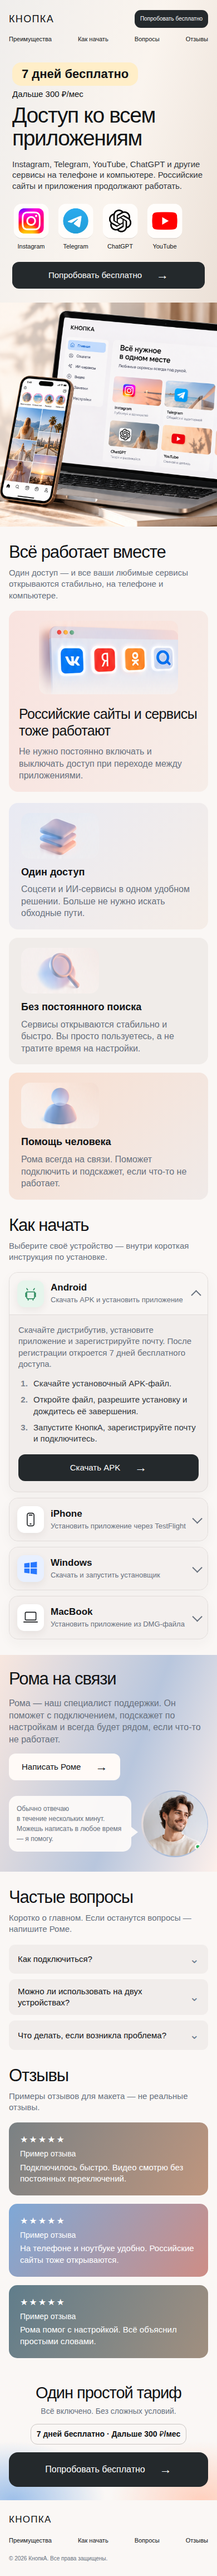
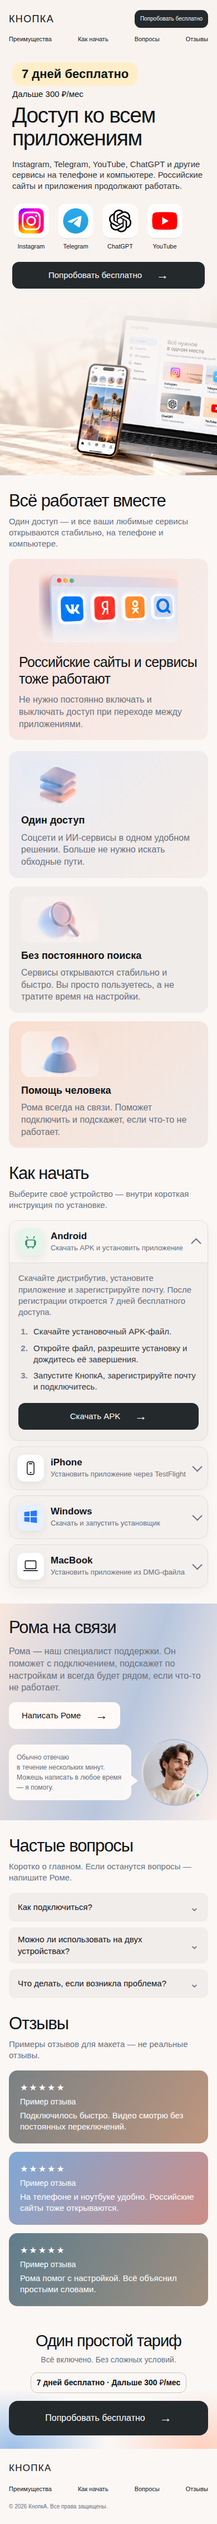
Make landing hero full width

Changed region(s): [[0.0, 0.0, 1.0, 0.996], [0.0615, 0.9649, 0.1538, 0.996]]

diff --git a/Design2.0/version-001-mvp/site/source/styles.css b/Design2.0/version-001-mvp/site/source/styles.css
@@ -32,4 +32,14 @@
 @media(min-width:701px) and (max-width:1000px){.tariff-layout{grid-template-columns:minmax(0,1fr) 230px;gap:16px}.tariff .tariff-cta{font-size:14px}}
 @media(max-width:700px){.platform-accordions{gap:10px}.platform-accordion summary{min-height:76px;padding:11px 14px;gap:12px}.platform-mark{flex-basis:48px;width:48px;height:48px;border-radius:13px}.platform-mark svg{width:28px;height:28px}.platform-heading strong{font-size:17px}.platform-heading span{font-size:13px;line-height:1.3}.platform-content{padding:17px 16px 19px}.platform-content>p{padding:0;font-size:15px}.platform-content ol{gap:9px;margin:15px 0 18px;padding-left:21px;font-size:15px}.platform-download{width:100%;min-width:0}.tariff-layout{grid-template-columns:1fr;gap:14px}.tariff-copy{align-items:center;padding:0;text-align:center}.tariff .tariff-cta{width:100%;min-height:62px;font-size:16px}}
 @media(prefers-reduced-motion:reduce){.platform-accordion summary::after{transition:none}}
+
+/* Hero v3: one full-width photographic surface beneath header and copy. */
+.hero-wrap{isolation:isolate;min-height:700px;background:#f6efe9}
+.hero-wrap::after{content:"";position:absolute;inset:0;z-index:1;pointer-events:none;background:linear-gradient(90deg,rgb(248 244 240 / 96%) 0%,rgb(248 244 240 / 86%) 28%,rgb(248 244 240 / 44%) 45%,rgb(248 244 240 / 8%) 61%,transparent 74%)}
+.hero-background{position:absolute;inset:0;z-index:0;width:100%;height:100%;max-width:none;object-fit:cover;object-position:center}
+.header,.hero{position:relative;z-index:2}
+.hero{width:88%;max-width:1160px;min-height:624px;display:block;overflow:visible}
+.hero-copy{width:48%;padding:30px 0 70px}
+@media(min-width:701px) and (max-width:1000px){.hero-wrap{min-height:512px}.hero{min-height:460px}.hero-copy{width:49%;padding:14px 0 30px}}
+@media(max-width:700px){.hero-wrap{min-height:0;padding-bottom:310px}.hero-wrap::after{background:linear-gradient(180deg,#f8f3ef 0,#f8f3ef 62%,rgb(248 243 239 / 90%) 70%,transparent 84%)}.hero-background{inset:auto 0 0;height:330px;object-position:64% center}.hero{width:100%;min-height:0;display:block}.hero-copy{width:100%;padding:20px 22px 25px}}
 @media(prefers-reduced-motion:no-preference){html{scroll-behavior:smooth}}

diff --git a/Design2.0/version-001-mvp/site/template/styles.css b/Design2.0/version-001-mvp/site/template/styles.css
@@ -1,6 +1,6 @@
 /* Same layout and typography as source; only media slots differ. */
 @import url('../source/styles.css');
 .media-slot{display:grid;place-items:center;aspect-ratio:var(--slot-ratio);max-width:100%;border:1px dashed #9da5b0;border-radius:14px;color:#59616c;background:#f0efed;font:11px/1.3 Arial,sans-serif;text-align:center;overflow-wrap:anywhere}
-.services .media-slot{width:100%}.russian-card>.media-slot{width:92%}.benefits .media-slot{width:80%;height:128px;margin:0 auto 9px}.steps .media-slot{width:100%}.media-slot.portrait{width:100%}.media-slot.hero-image{height:700px}
-@media(min-width:701px) and (max-width:1000px){.media-slot.hero-image{height:460px}.benefits .media-slot{height:85px}}
-@media(max-width:700px){.media-slot.hero-image{height:auto;max-height:450px;width:100%}.russian-card>.media-slot{width:250px;margin:auto}.benefits .media-slot{width:140px;height:82px;margin:0 0 14px}.steps .media-slot{max-height:205px}}
+.services .media-slot{width:100%}.russian-card>.media-slot{width:92%}.benefits .media-slot{width:80%;height:128px;margin:0 auto 9px}.steps .media-slot{width:100%}.media-slot.portrait{width:100%}.media-slot.hero-background{max-width:none}
+@media(min-width:701px) and (max-width:1000px){.benefits .media-slot{height:85px}}
+@media(max-width:700px){.russian-card>.media-slot{width:250px;margin:auto}.benefits .media-slot{width:140px;height:82px;margin:0 0 14px}.steps .media-slot{max-height:205px}}

diff --git a/Design2.0/version-001-mvp/site/template/index.html b/Design2.0/version-001-mvp/site/template/index.html
@@ -9,6 +9,7 @@
 <body>
   <a class="skip-link" href="#main">К содержанию</a>
   <div class="hero-wrap" id="top">
+    <span class="media-slot hero-background" role="img" aria-label="Место для изображения reference-hero-wide-v3" style="--slot-ratio:1672/941">reference-hero-wide-v3</span>
     <header class="header shell">
       <a class="wordmark" href="#top">КНОПКА</a>
       <nav aria-label="Основная навигация"><a href="#benefits">Преимущества</a><a href="#start">Как начать</a><a href="#faq">Вопросы</a><a href="#reviews">Отзывы</a></nav>
@@ -27,7 +28,6 @@
         </ul>
         <a class="button hero-cta" href="#start">Попробовать бесплатно <span aria-hidden="true">→</span></a>
       </div>
-      <span class="media-slot hero-image" role="img" aria-label="Место для изображения reference-hero-v2" style="--slot-ratio:1234/1274">reference-hero-v2</span>
     </section>
   </div>
   <main id="main">

diff --git a/Design2.0/version-001-mvp/site/source/index.html b/Design2.0/version-001-mvp/site/source/index.html
@@ -9,6 +9,7 @@
 <body>
   <a class="skip-link" href="#main">К содержанию</a>
   <div class="hero-wrap" id="top">
+    <img class="hero-background" src="../assets/reference-hero-wide-v3.png" alt="" width="1672" height="941" aria-hidden="true">
     <header class="header shell">
       <a class="wordmark" href="#top">КНОПКА</a>
       <nav aria-label="Основная навигация"><a href="#benefits">Преимущества</a><a href="#start">Как начать</a><a href="#faq">Вопросы</a><a href="#reviews">Отзывы</a></nav>
@@ -27,7 +28,6 @@
         </ul>
         <a class="button hero-cta" href="#start">Попробовать бесплатно <span aria-hidden="true">→</span></a>
       </div>
-      <img class="hero-image" src="../assets/reference-hero-v2.png" alt="Ноутбук и телефон с приложениями — визуальная концепция" width="1234" height="1274">
     </section>
   </div>
   <main id="main">

diff --git a/Design2.0/version-001-mvp/site/assets/README.md b/Design2.0/version-001-mvp/site/assets/README.md
@@ -20,6 +20,17 @@
 приложений, тёплый мягкий дневной свет; без людей, дополнительных устройств и
 искажённой геометрии.
 
+## Hero wide v3
+
+`reference-hero-wide-v3.png` создан встроенным imagegen как широкая версия
+верхней секции (`1672×941`). Устройства расположены справа, слева и сверху
+оставлены спокойные светлые зоны под настоящий HTML-текст и навигацию. В
+изображение намеренно не встроены заголовки, кнопки и меню.
+
+Краткий prompt: полноширинная реалистичная hero-фотография 16:9, ноутбук справа,
+телефон перед ним, светлый стол и тёплая кремовая стена; левая часть тихая и
+низкоконтрастная, без людей, текста, кнопок, навигации и водяных знаков.
+
 ## App icons v2
 
 `instagram-v2.png`, `telegram-v2.png`, `chatgpt-v2.png` и `youtube-v2.png`
